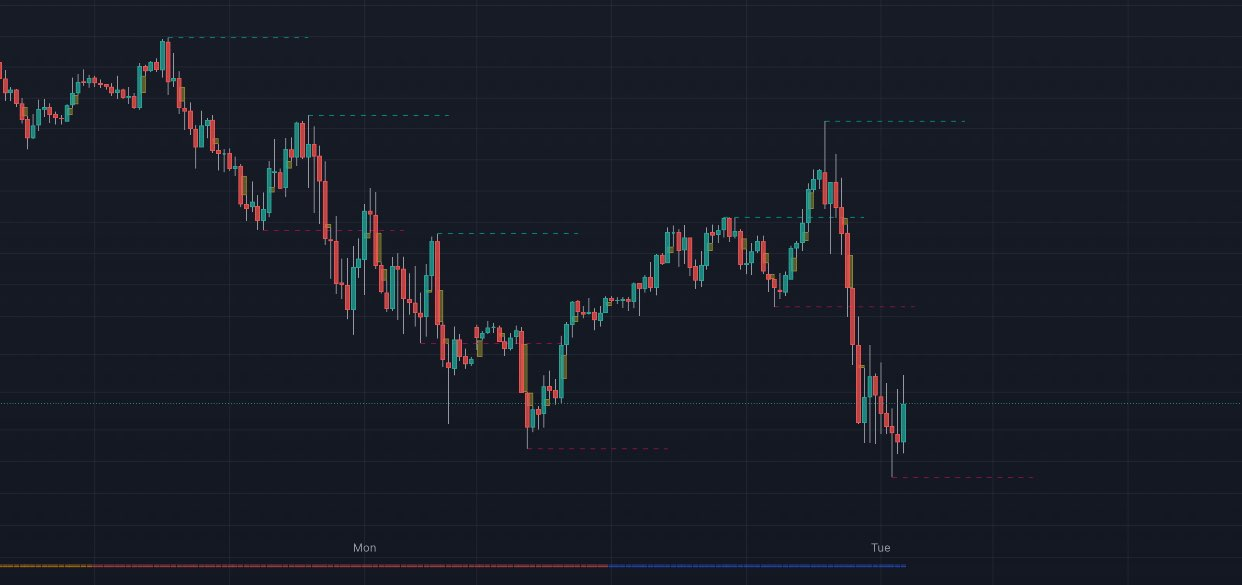
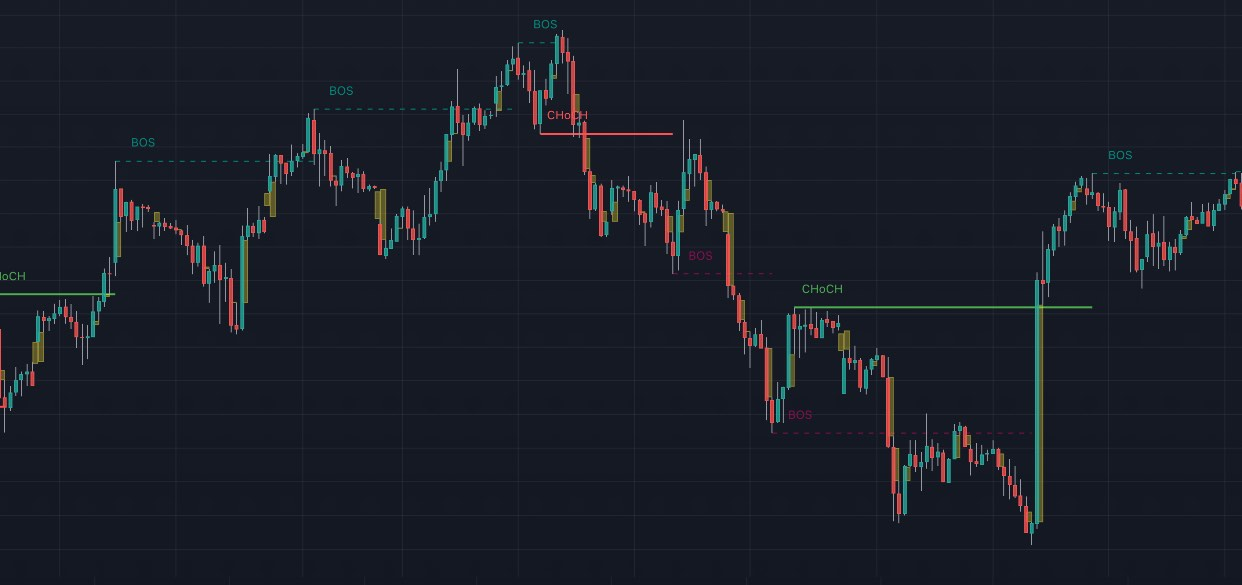
add market structure

diff --git a/index.html b/index.html
@@ -134,7 +134,7 @@
                     <div class="col-lg-4">
                         <div class="feature bg-primary bg-gradient text-white rounded-3 mb-3"><i class="bi bi-graph-up"></i></div>
                         <h2 class="h4 fw-bolder">Many Useful Price Actions Tools</h2>
-                        <p>From magic bars, trendline, price levels, direction box... to accumulation zone. You can change the setting values easily.</p>
+                        <p>From market structure, magic bars, trendline, price levels,... to accumulation zone. You can change the setting values easily.</p>
                          <!--<a class="text-decoration-none" href="#!">
                             Call to action
                             <i class="bi bi-arrow-right"></i>
@@ -212,7 +212,7 @@
                         <div class="carousel-caption d-none d-md-block">
                             <h5>Price Levels</h5>
                             <p>
-                                Previous Day or Previous Week H/L/C H/L/C, ADR H/L, Price line at a specific time (O/C/H/L)
+                                Previous Day, Previous Week or Previous Month H/L/C H/L/C, ADR H/L, Price line at a specific time (O/C/H/L)
                             </p>
                         </div>
                     </div>
@@ -260,7 +260,7 @@
                         <div class="carousel-caption d-none d-md-block">
                             <h5>Magic Bars</h5>
                             <p>
-                                The indicator has Fractal Bars & Imbalance Bars (Fair Value Gap).
+                                The indicator has Fractal Bars, Imbalance Bars (Fair Value Gap) and Trend Bars.
                             </p>
                         </div>
                     </div>
@@ -386,9 +386,9 @@
                             width="auto"
                         />
                         <div class="carousel-caption d-none d-md-block">
-                            <h5>Old High/Low</h5>
+                            <h5>Market Structure</h5>
                             <p>
-                                Show the last n old high/low lines. 
+                                Show the market structure (BOS & CHoCH levels)
                                 </br>To detect the next buy/sell stops levels or whether market structure shifted or not.
                             </p>
                         </div>
